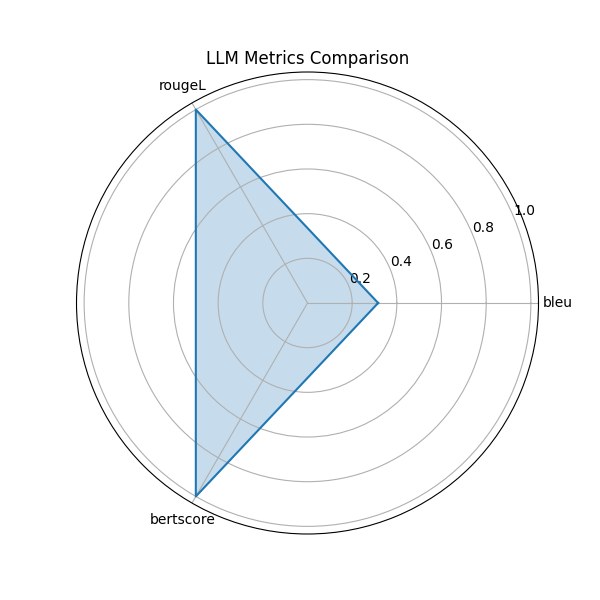
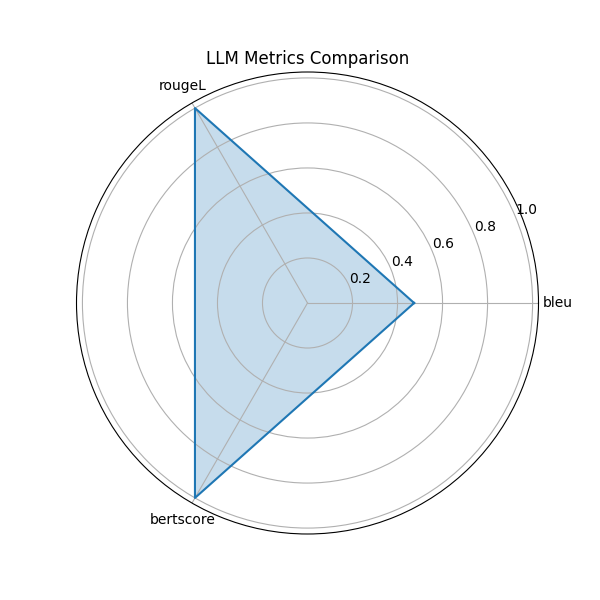
changes in the code

diff --git a/results/report.md b/results/report.md
@@ -1,11 +1,11 @@
 # LLM Evaluation Report
 
 ## bleu
-- Score: 0.316227766016838
+- Score: 0.47374044388788505
 
 ## rougeL
 - Score: 1.0
 
 ## bertscore
-- Score: 1.0000001192092896
+- Score: 1.0
 
